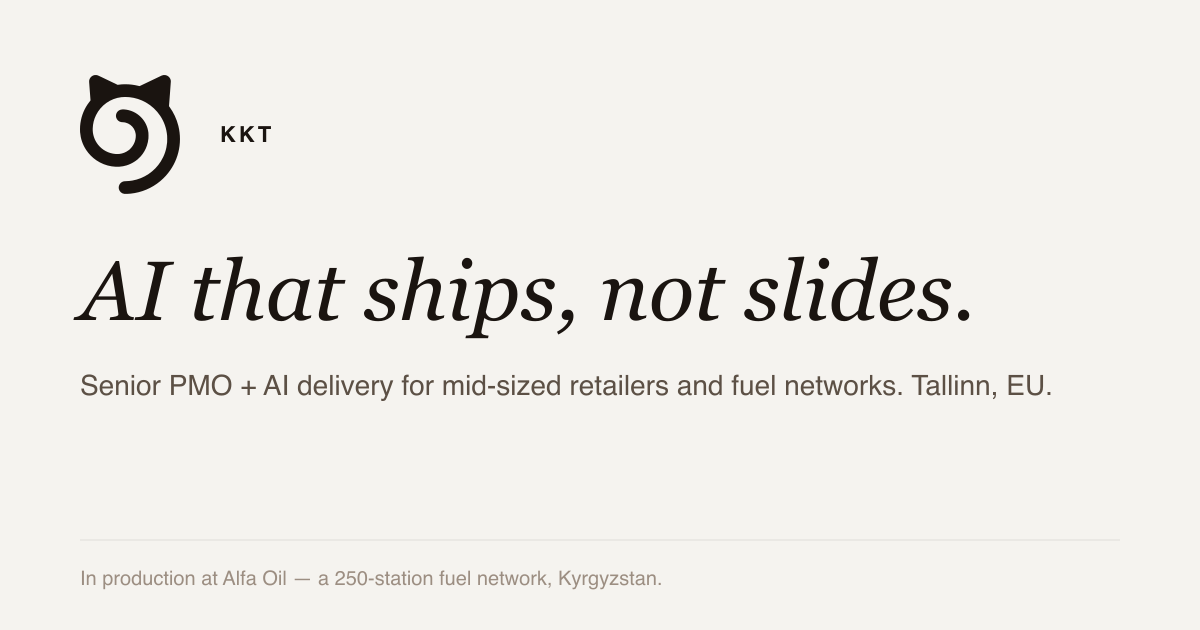
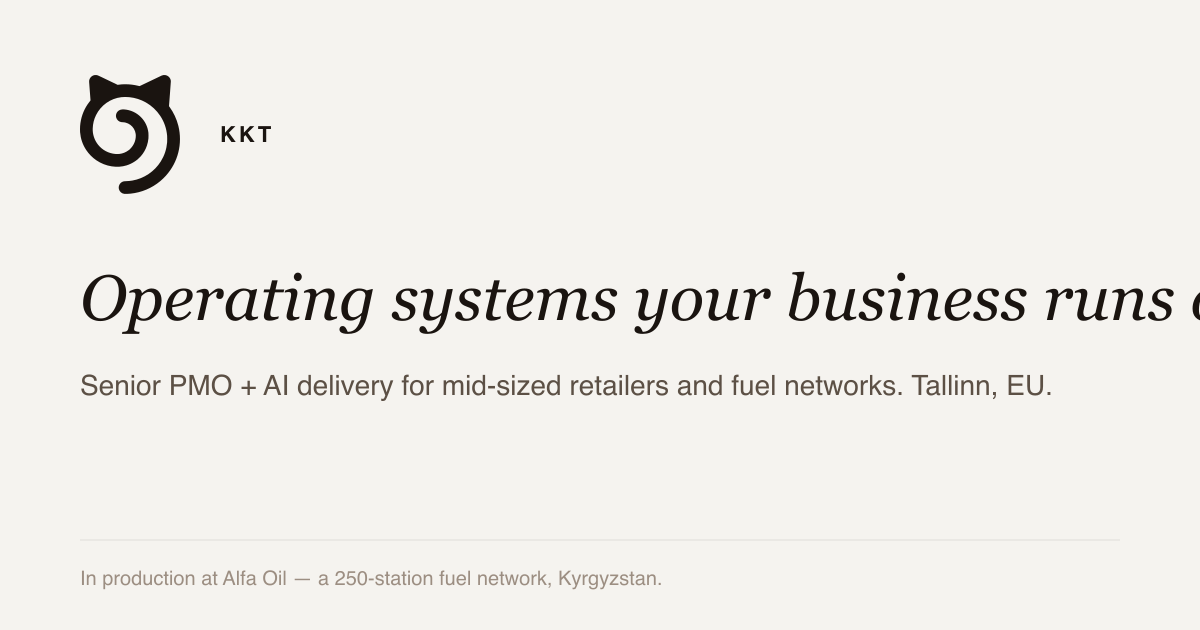
copy: replace 'AI that ships, not slides' hero tagline (George's review)
George + Dennis flagged the slogan as generic marketing noise. New H1:
'We build the operating systems your business runs on.' — concrete,
no slogan. Rolled across hero, footer, default <title> + WebSite schema
(descriptive SEO form), home OG card, firm positioning knowledge, and
the galaga easter-egg blurb. First step of a broader pass to strip
generic marketing-noise phrasing site-wide.

Changed region(s): [[0.0617, 0.3921, 1.0, 0.5429]]

diff --git a/scripts/generate-og.py b/scripts/generate-og.py
@@ -55,7 +55,7 @@ CAT_PATH = (
 # (slug, headline, subhead, footline)
 # slug = filename (no extension), saved to public/og/<slug>.png
 PAGES = [
-    ('home', 'AI that ships, not slides.', 'Senior PMO + AI delivery for mid-sized retailers and fuel networks. Tallinn, EU.',
+    ('home', 'Operating systems your business runs on.', 'Senior PMO + AI delivery for mid-sized retailers and fuel networks. Tallinn, EU.',
      'In production at Alfa Oil — a 250-station fuel network, Kyrgyzstan.'),
     ('not-for-you', 'Is this a fit?', 'When we are the right partner — and when we are not.',
      'Reading this and still wanting to talk is a strong signal.'),

diff --git a/public/api/knowledge/01-firm.md b/public/api/knowledge/01-firm.md
@@ -9,8 +9,8 @@
 
 ## Positioning (canonical)
 
-**AI that ships, not slides.** Senior PMO + AI delivery for mid-sized
-retailers and fuel networks. Tallinn, EU.
+**We build the operating systems your business runs on.** Senior PMO +
+AI delivery for mid-sized retailers and fuel networks. Tallinn, EU.
 
 ## Where we work
 
